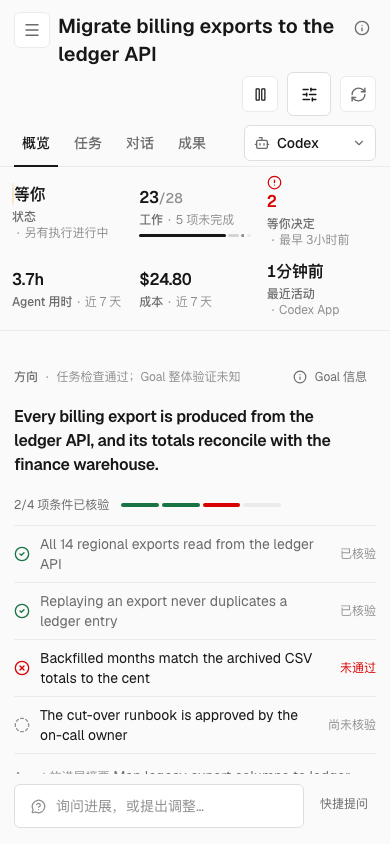
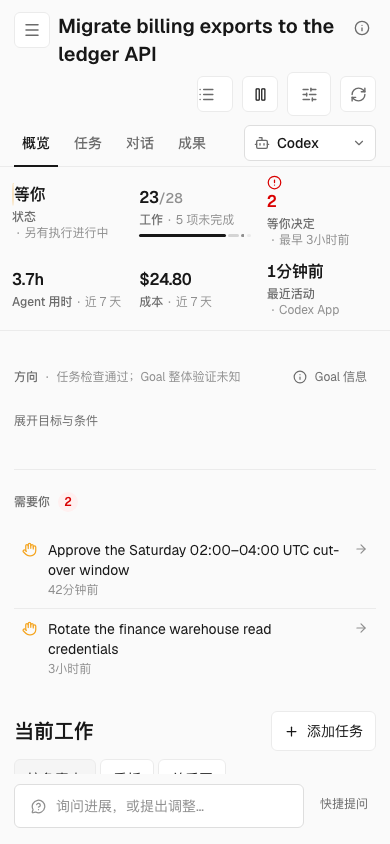
docs(workspace): show approved mobile rail and recovery scope

diff --git a/docs/guides/personal-workspace-user-guide.md b/docs/guides/personal-workspace-user-guide.md
@@ -206,6 +206,11 @@ reference in the creation preview.
 
 ### 4.2 Goal 概览与交付依据 / Goal overview
 
+手机默认折叠目标与验收条件，可随时展开；顶部「全部工作」打开侧栏，Escape 关闭并返回入口。
+窄屏侧栏选择任务后关闭，沿用同一详情与 URL 选择；未知远端链接明确提示当前快照没有该任务。
+
+On phones, direction and criteria start folded. The top-bar **All work** control opens the rail; Escape closes it and returns focus. Selecting work opens the existing task details. Unknown remote links report unavailable snapshot details without querying local task owners.
+
 Goal 顶部直接提供 **概览、任务、对话、成果**，分别用于判断进展、推进工作、
 与 Agent 沟通和查看产出。选择一个 Goal 后仍默认进入四列任务看板；
 看板与列表保持原有任务范围。切换页面后，任务筛选、已加载历史和各页滚动位置保留。

diff --git a/docs/architecture/rfcs/goal-workspace-surface-v0.md b/docs/architecture/rfcs/goal-workspace-surface-v0.md
@@ -472,6 +472,10 @@ local packaged rendering, not cross-host latency or W2 live scale. V6 desktop/mo
 have been inspected; the PR's final validation record owns the full regression result. Activity covers
 material observations available in the existing timeline, not a complete audit or independent acceptance.
 Results keep their existing readback validators; run summaries cannot prove adoption.
+The approved narrow-screen presentation folds Direction on phones and opens All work from the
+masthead in a native dialog. Escape restores launcher focus; selecting a task returns to the existing
+inspector. History keeps its loaded state when reads are inactive, and missing remote Todo links
+show an unavailable notice without querying local owners.
 
 M3, W2/W3, installed behavior and real L1/G1 delivery/original-route return retain their existing owners.
 This candidate does not close those qualification gates.
